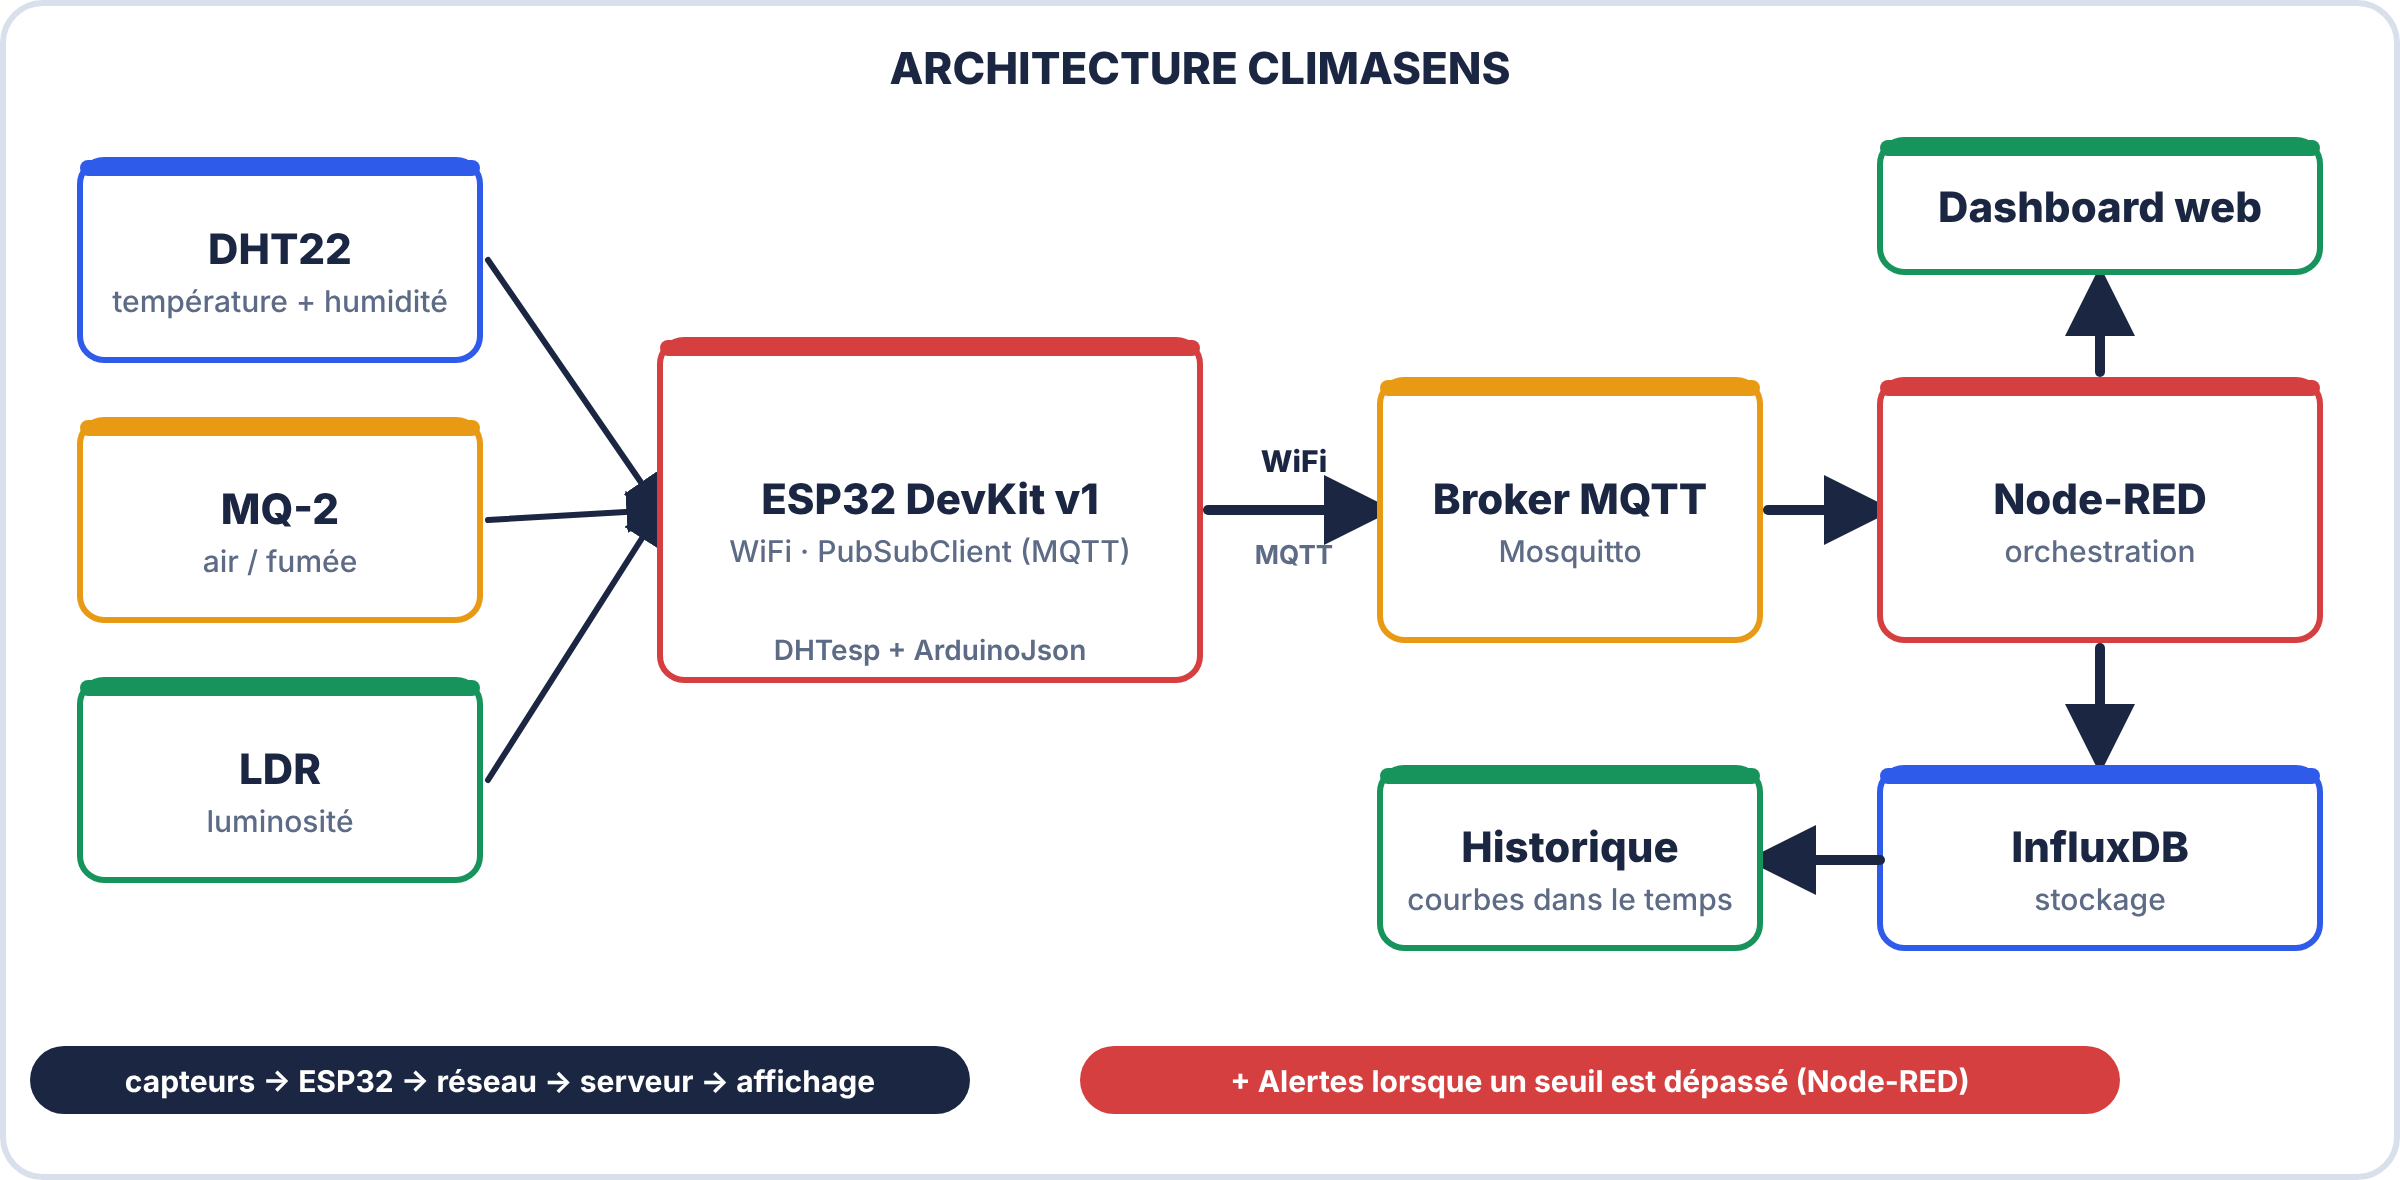
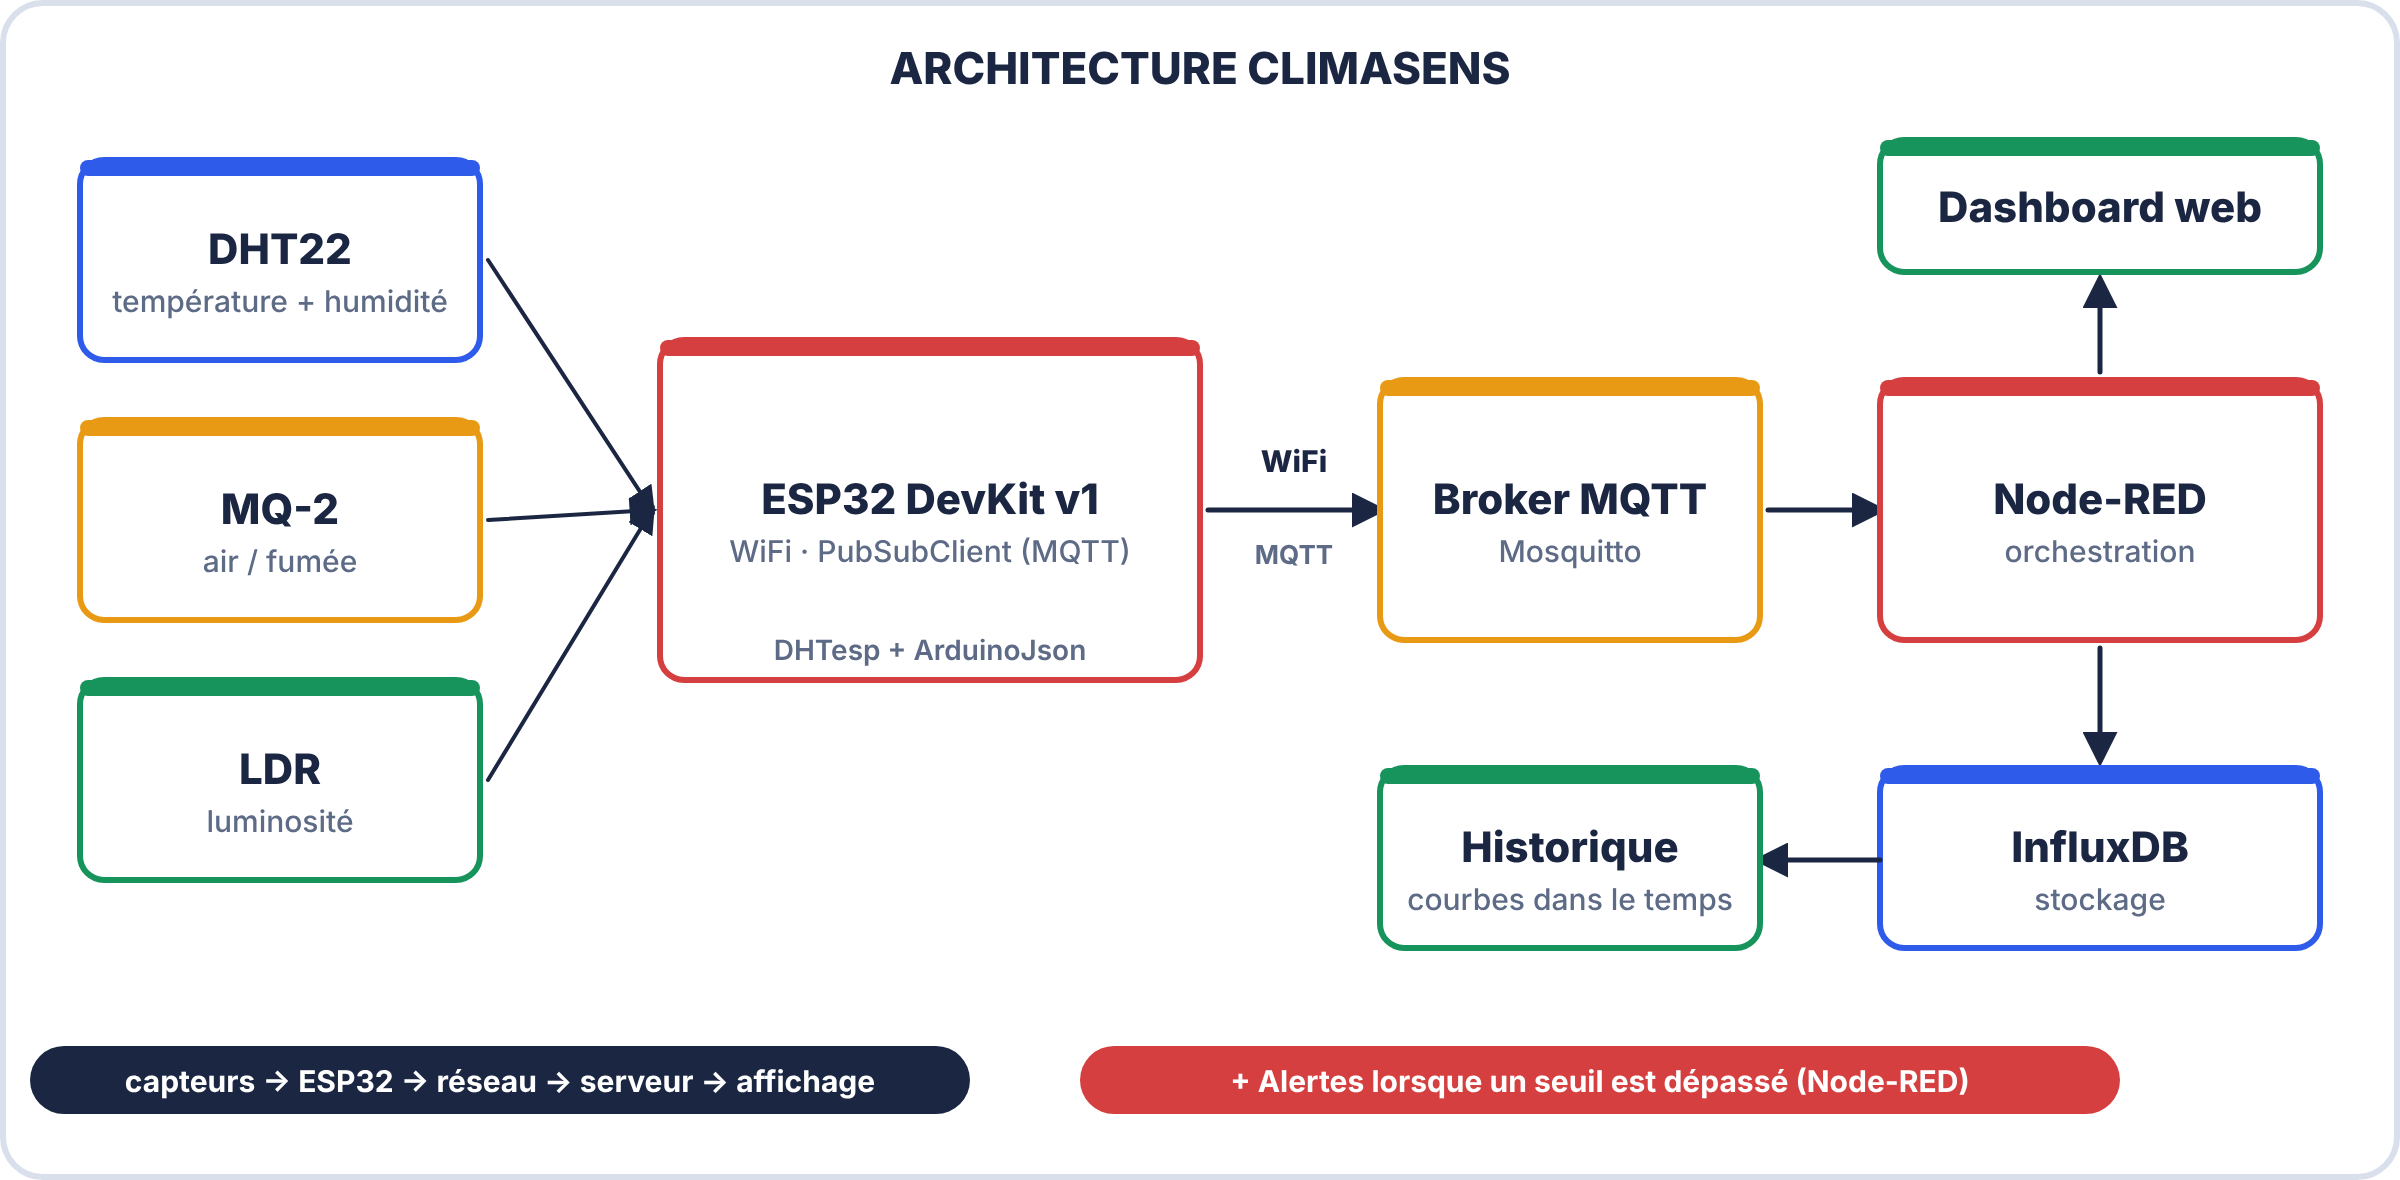
Flèches des schémas chaîne de raccordement et architecture ClimaSens : têtes réduites
Claude-Session: https://claude.ai/code/session_018Ln2Xo12prChdSPrkdSn9D

diff --git a/outils/illustrations-e2/figs_schemas.py b/outils/illustrations-e2/figs_schemas.py
@@ -125,15 +125,15 @@ def f_climasens_archi():
     sens = (("DHT22", "température + humidité", BLUE), ("MQ-2", "air / fumée", AMBER), ("LDR", "luminosité", GREEN))
     for k, (n, sub, c) in enumerate(sens):
         o += block(40, 80 + k * 130, 200, 100, n, sub, c)
-        o += arrow(244, 130 + k * 130, 330, 255, INK, 3)
+        o += arrow(244, 130 + k * 130, 326, 255, INK, 2)
     o += block(330, 170, 270, 170, "ESP32 DevKit v1", "WiFi · PubSubClient (MQTT)", RED) + T(465, 330, "DHTesp + ArduinoJson", 14, 600, MUTED)
-    o += arrow(604, 255, 690, 255, INK, 5) + T(647, 236, "WiFi", 15, 800, INK) + T(647, 282, "MQTT", 13, 700, MUTED)
+    o += arrow(604, 255, 690, 255, INK, 2.5) + T(647, 236, "WiFi", 15, 800, INK) + T(647, 282, "MQTT", 13, 700, MUTED)
     o += block(690, 190, 190, 130, "Broker MQTT", "Mosquitto", AMBER)
-    o += arrow(884, 255, 940, 255, INK, 5)
+    o += arrow(884, 255, 940, 255, INK, 2.5)
     o += block(940, 190, 220, 130, "Node-RED", "orchestration", RED)
-    o += arrow(1050, 324, 1050, 380, INK, 5)
-    o += block(940, 384, 220, 90, "InfluxDB", "stockage", BLUE) + arrow(940, 430, 880, 430, INK, 5) + block(690, 384, 190, 90, "Historique", "courbes dans le temps", GREEN)
-    o += arrow(1050, 186, 1050, 140, INK, 5) + block(940, 70, 220, 66, "Dashboard web", None, GREEN)
+    o += arrow(1050, 324, 1050, 380, INK, 2.5)
+    o += block(940, 384, 220, 90, "InfluxDB", "stockage", BLUE) + arrow(940, 430, 880, 430, INK, 2.5) + block(690, 384, 190, 90, "Historique", "courbes dans le temps", GREEN)
+    o += arrow(1050, 186, 1050, 140, INK, 2.5) + block(940, 70, 220, 66, "Dashboard web", None, GREEN)
     o += chip(790, 520, "Alertes (seuils dépassés)", RED, w=330, size=15) + arrow(1000, 520, 1000, 486, RED, 3) if False else ""
     o += chip(800, 540, "+ Alertes lorsque un seuil est dépassé (Node-RED)", RED, w=520, size=15)
     o += chip(250, 540, "capteurs → ESP32 → réseau → serveur → affichage", INK, w=470, size=15)
@@ -368,7 +368,7 @@ def f_chaine_raccordement():
         o += f'<rect x="{x}" y="{y}" width="{w}" height="86" rx="14" fill="#fff" stroke="{c}" stroke-width="4"/><rect x="{x}" y="{y}" width="12" height="86" rx="6" fill="{c}"/>'
         o += T(x + 34, y + 34, t, 21, 800, c, "start") + T(x + 34, y + 60, sub, 15, 600, MUTED, "start")
         o += f'<rect x="{x+w-250}" y="{y+16}" width="226" height="26" rx="13" fill="{c}"/>' + T(x + w - 137, y + 34, tag, 12, 800, "#fff") + T(x + w - 24, y + 66, act, 14, 700, INK, "end")
-        if k < 4: o += arrow(600, y + 90, 600, y + 126, INK, 4)
+        if k < 4: o += arrow(600, y + 92, 600, y + 124, INK, 2)
     o += T(600, 676, "Chaque maillon est comparé au précédent : la chaîne ne doit JAMAIS être interrompue", 16, 800, RED)
     return figure(W, 710, o)
 
